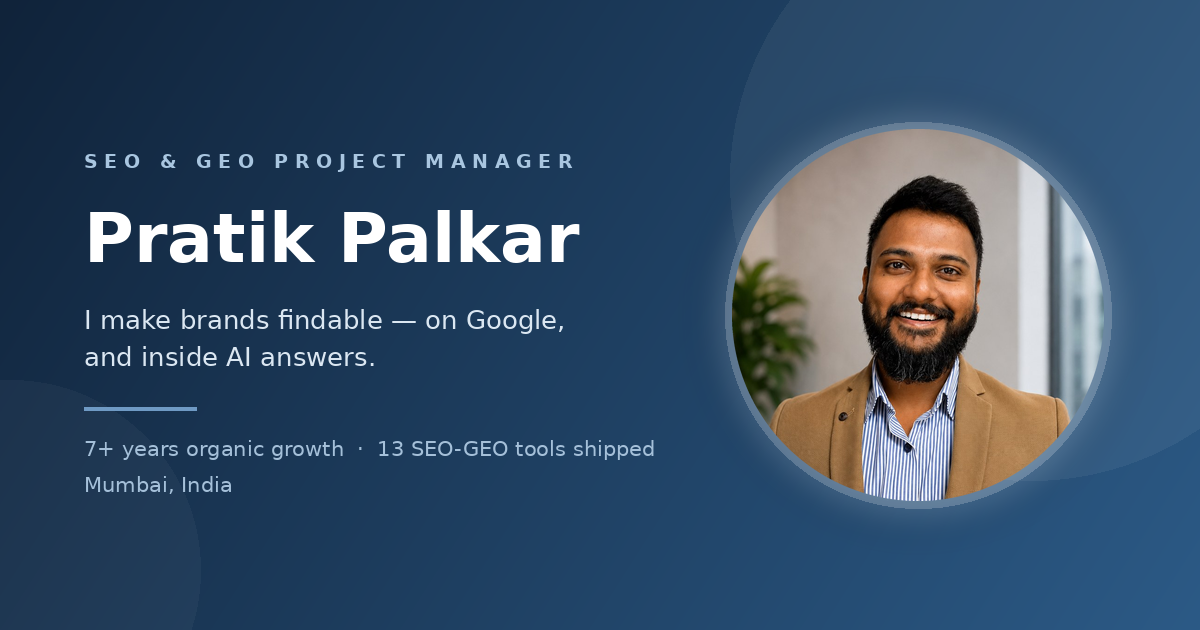
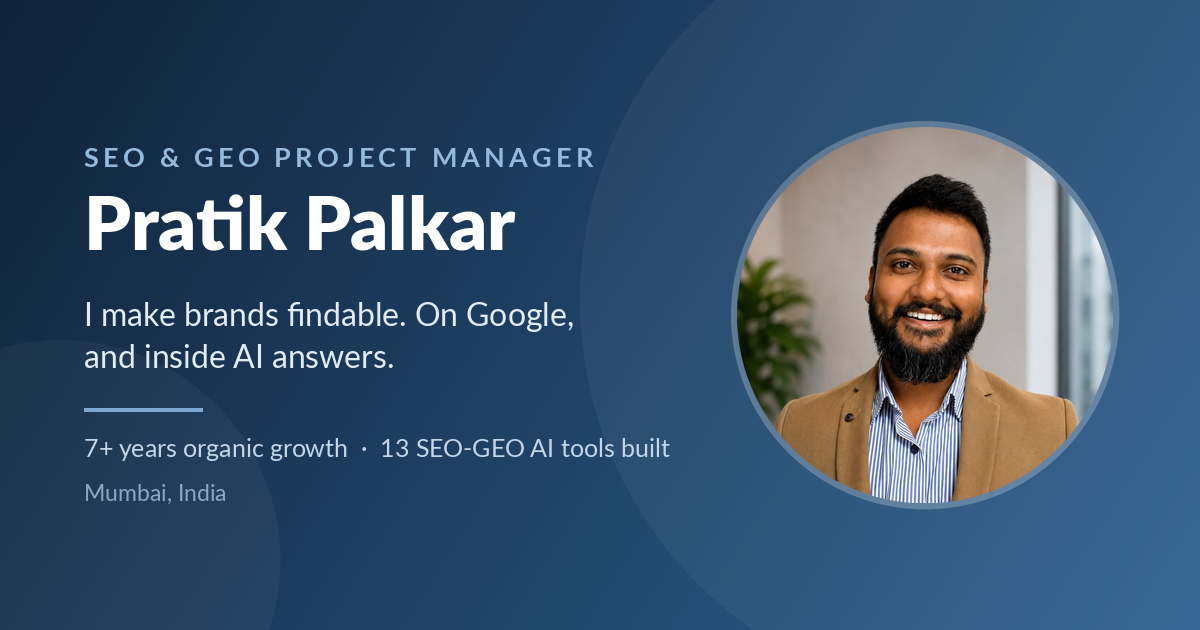
Add files via upload

diff --git a/index.html b/index.html
@@ -4,10 +4,11 @@
 <meta charset="utf-8">
 <meta name="viewport" content="width=device-width, initial-scale=1">
 <title>Pratik Palkar | SEO &amp; GEO Project Manager, Mumbai</title>
-<meta name="description" content="SEO &amp; GEO Project Manager with 7+ years in organic growth. I lead generative engine optimization for D2C, B2B SaaS and BFSI brands, and I build the AI tooling the work runs on: 13 SEO-GEO tools shipped to production.">
+<meta name="description" content="SEO &amp; GEO Project Manager with 7+ years in organic growth. I lead generative engine optimization for D2C, B2B SaaS and BFSI brands, and I build the AI tools that run it: 13 web-based SEO and GEO tools in daily use across the agency.">
 <link rel="canonical" href="https://pratikpalkar1703-gif.github.io/resume/">
 <meta name="robots" content="index, follow, max-snippet:-1, max-image-preview:large">
 <meta name="google-site-verification" content="-DB6dBQFdejRpJ7bw-enzSByOhrQgcscA0fmxQ1RF98">
+
 <!-- Google tag (gtag.js) -->
 <script async src="https://www.googletagmanager.com/gtag/js?id=G-4XEYJY23QV"></script>
 <script>
@@ -780,7 +781,7 @@ footer{padding:26px 0;font-size:13px;color:var(--muted);text-align:center}
     <div class="herotext">
     <div class="eyebrow">SEO &amp; GEO Project Manager · Mumbai, India</div>
     <h1>I make brands findable.<br>On Google, and inside AI answers.</h1>
-    <p class="lede">Seven years in organic growth. I lead SEO and generative engine optimization for <strong>5+ clients and a delivery team</strong> at Growisto across D2C/e-commerce, B2B SaaS and BFSI, and I build the software the work runs on: <strong>13 SEO-GEO tools</strong> designed, built with Claude, and shipped to production. Away from the desk I drive. Most recently Mumbai to Gangtok and back, 5,000 km.</p>
+    <p class="lede">Seven years in organic growth. I lead SEO and generative engine optimization for <strong>5+ clients and a delivery team</strong> at Growisto across D2C/e-commerce, B2B SaaS and BFSI, and I build the AI tools that run it: <strong>13 web-based SEO and GEO tools</strong> I scoped, built with Claude and put into daily use across the agency. Away from the desk, I road trip. Mumbai to Gangtok and back, 5,000 km, was the last big one.</p>
     <div class="btns">
       <a class="btn btn-primary" href="Pratik_Palkar_Resume.pdf" download>Download CV (PDF)</a>
       <a class="btn btn-ghost" href="mailto:pratikpalkar1703@gmail.com">Email me</a>
